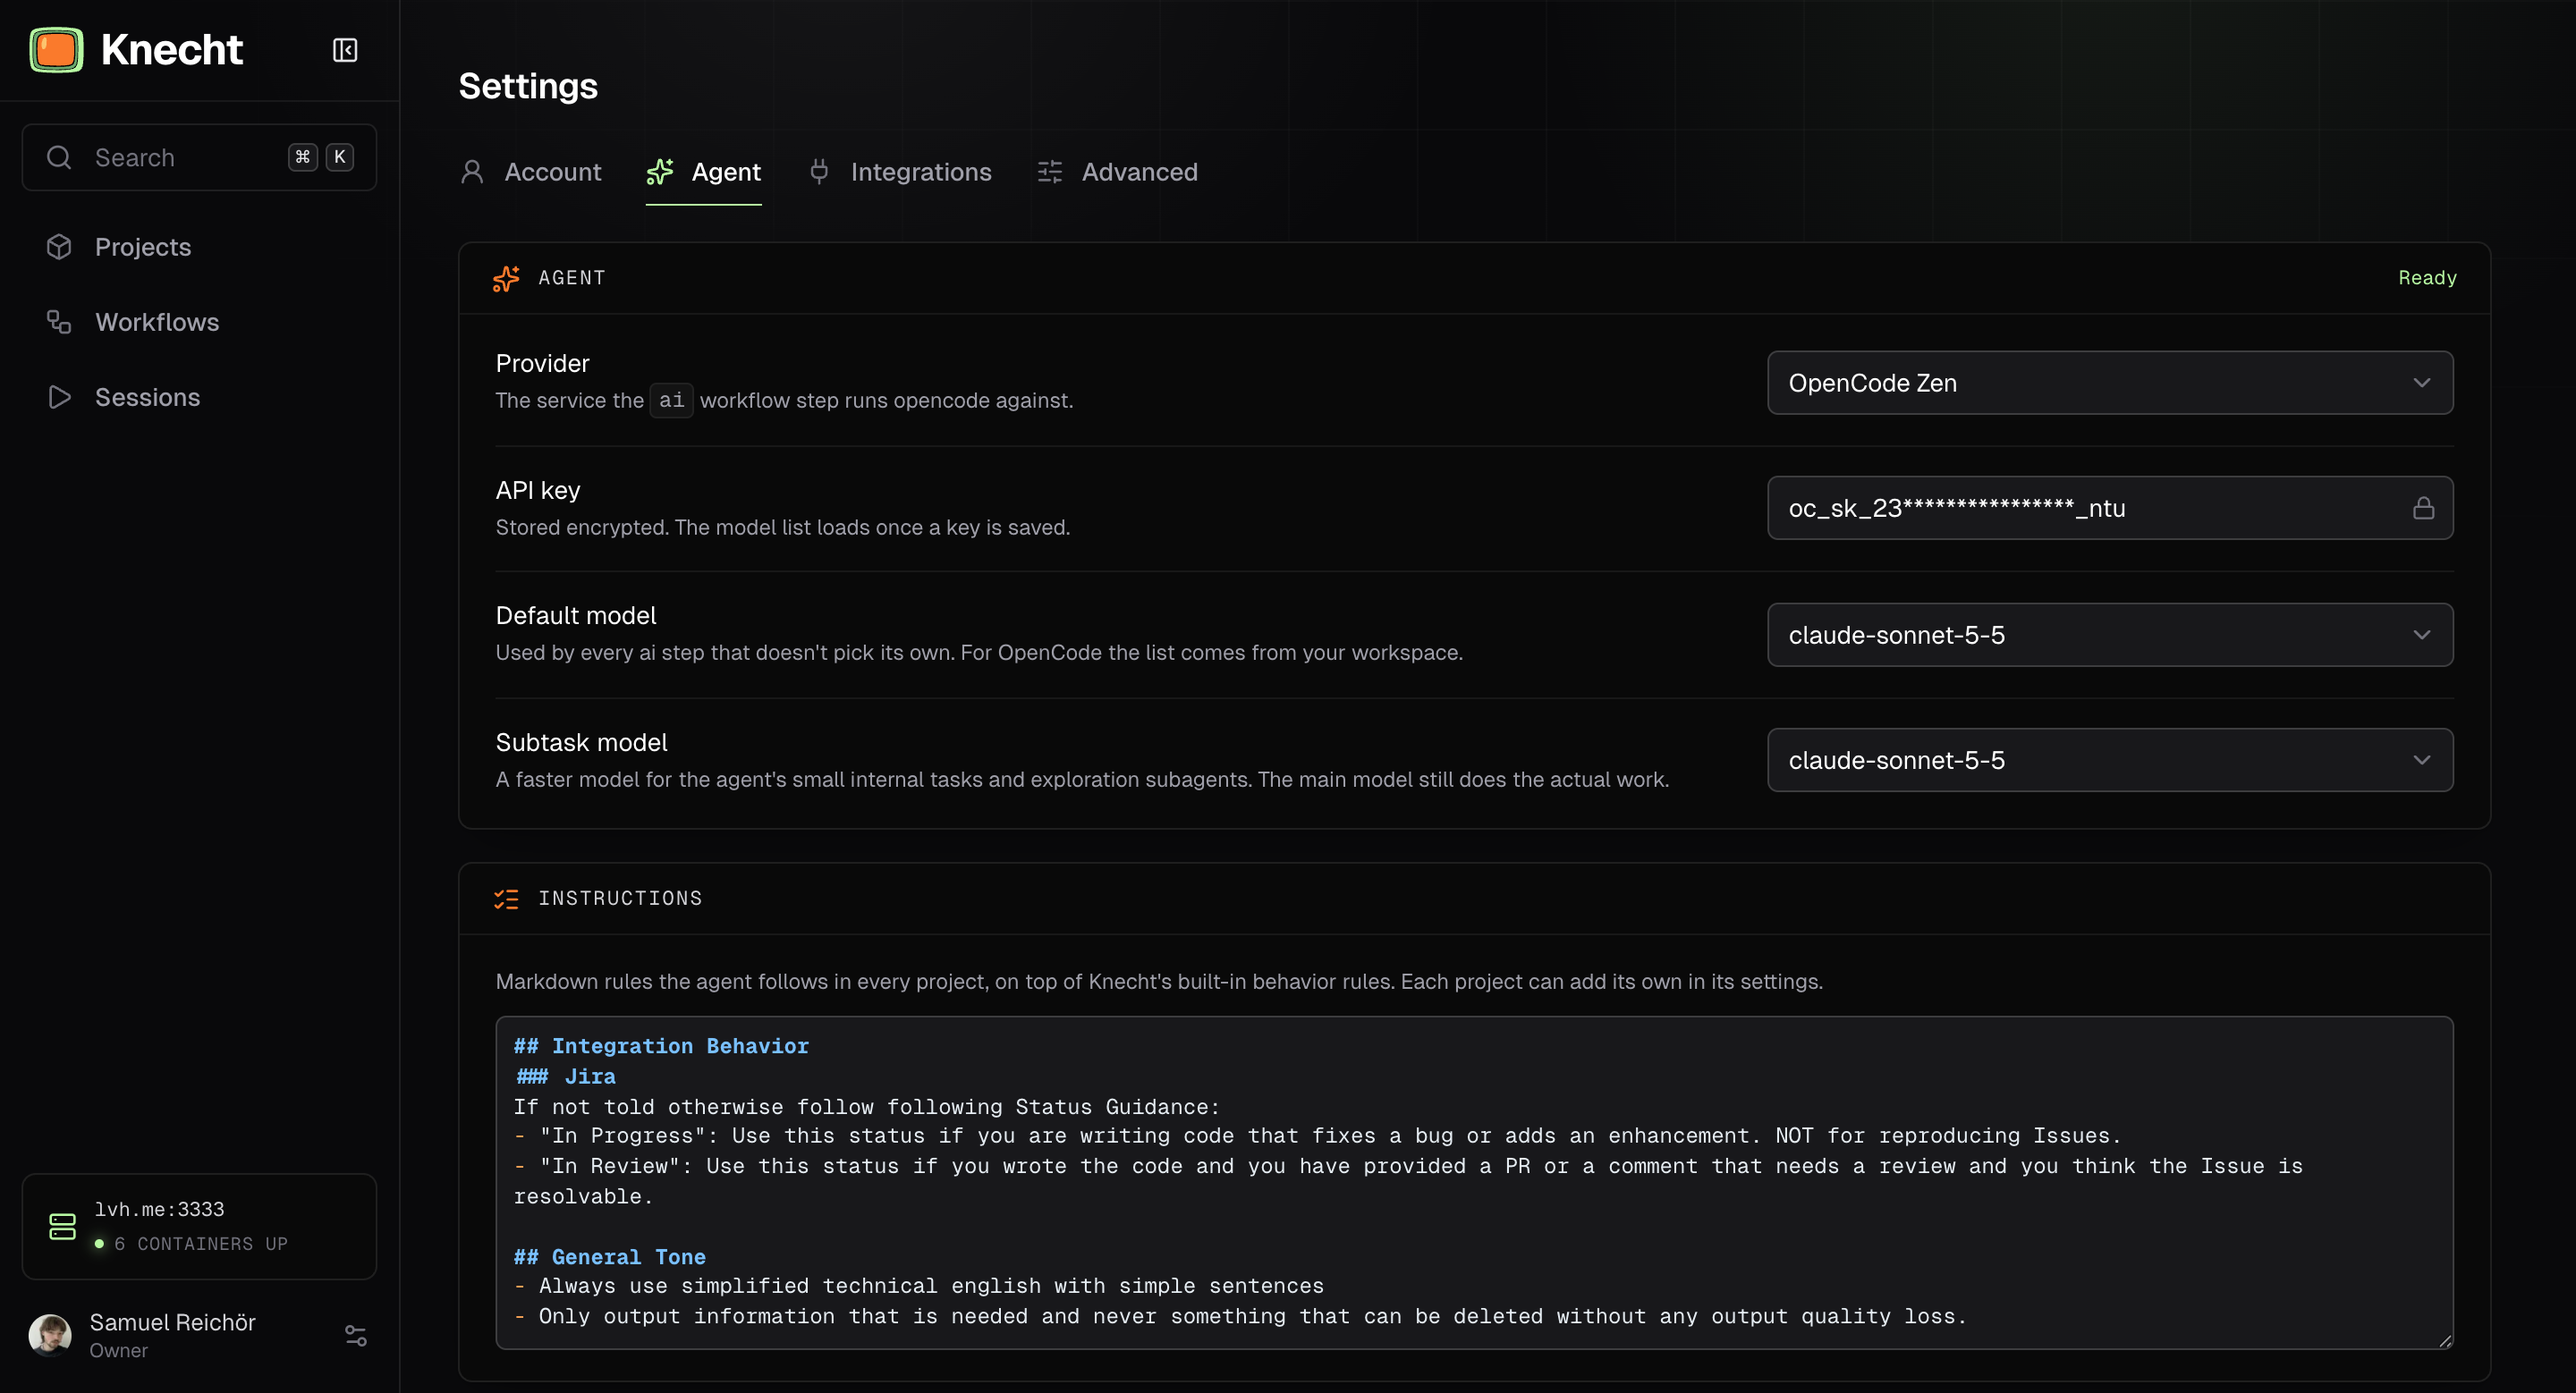
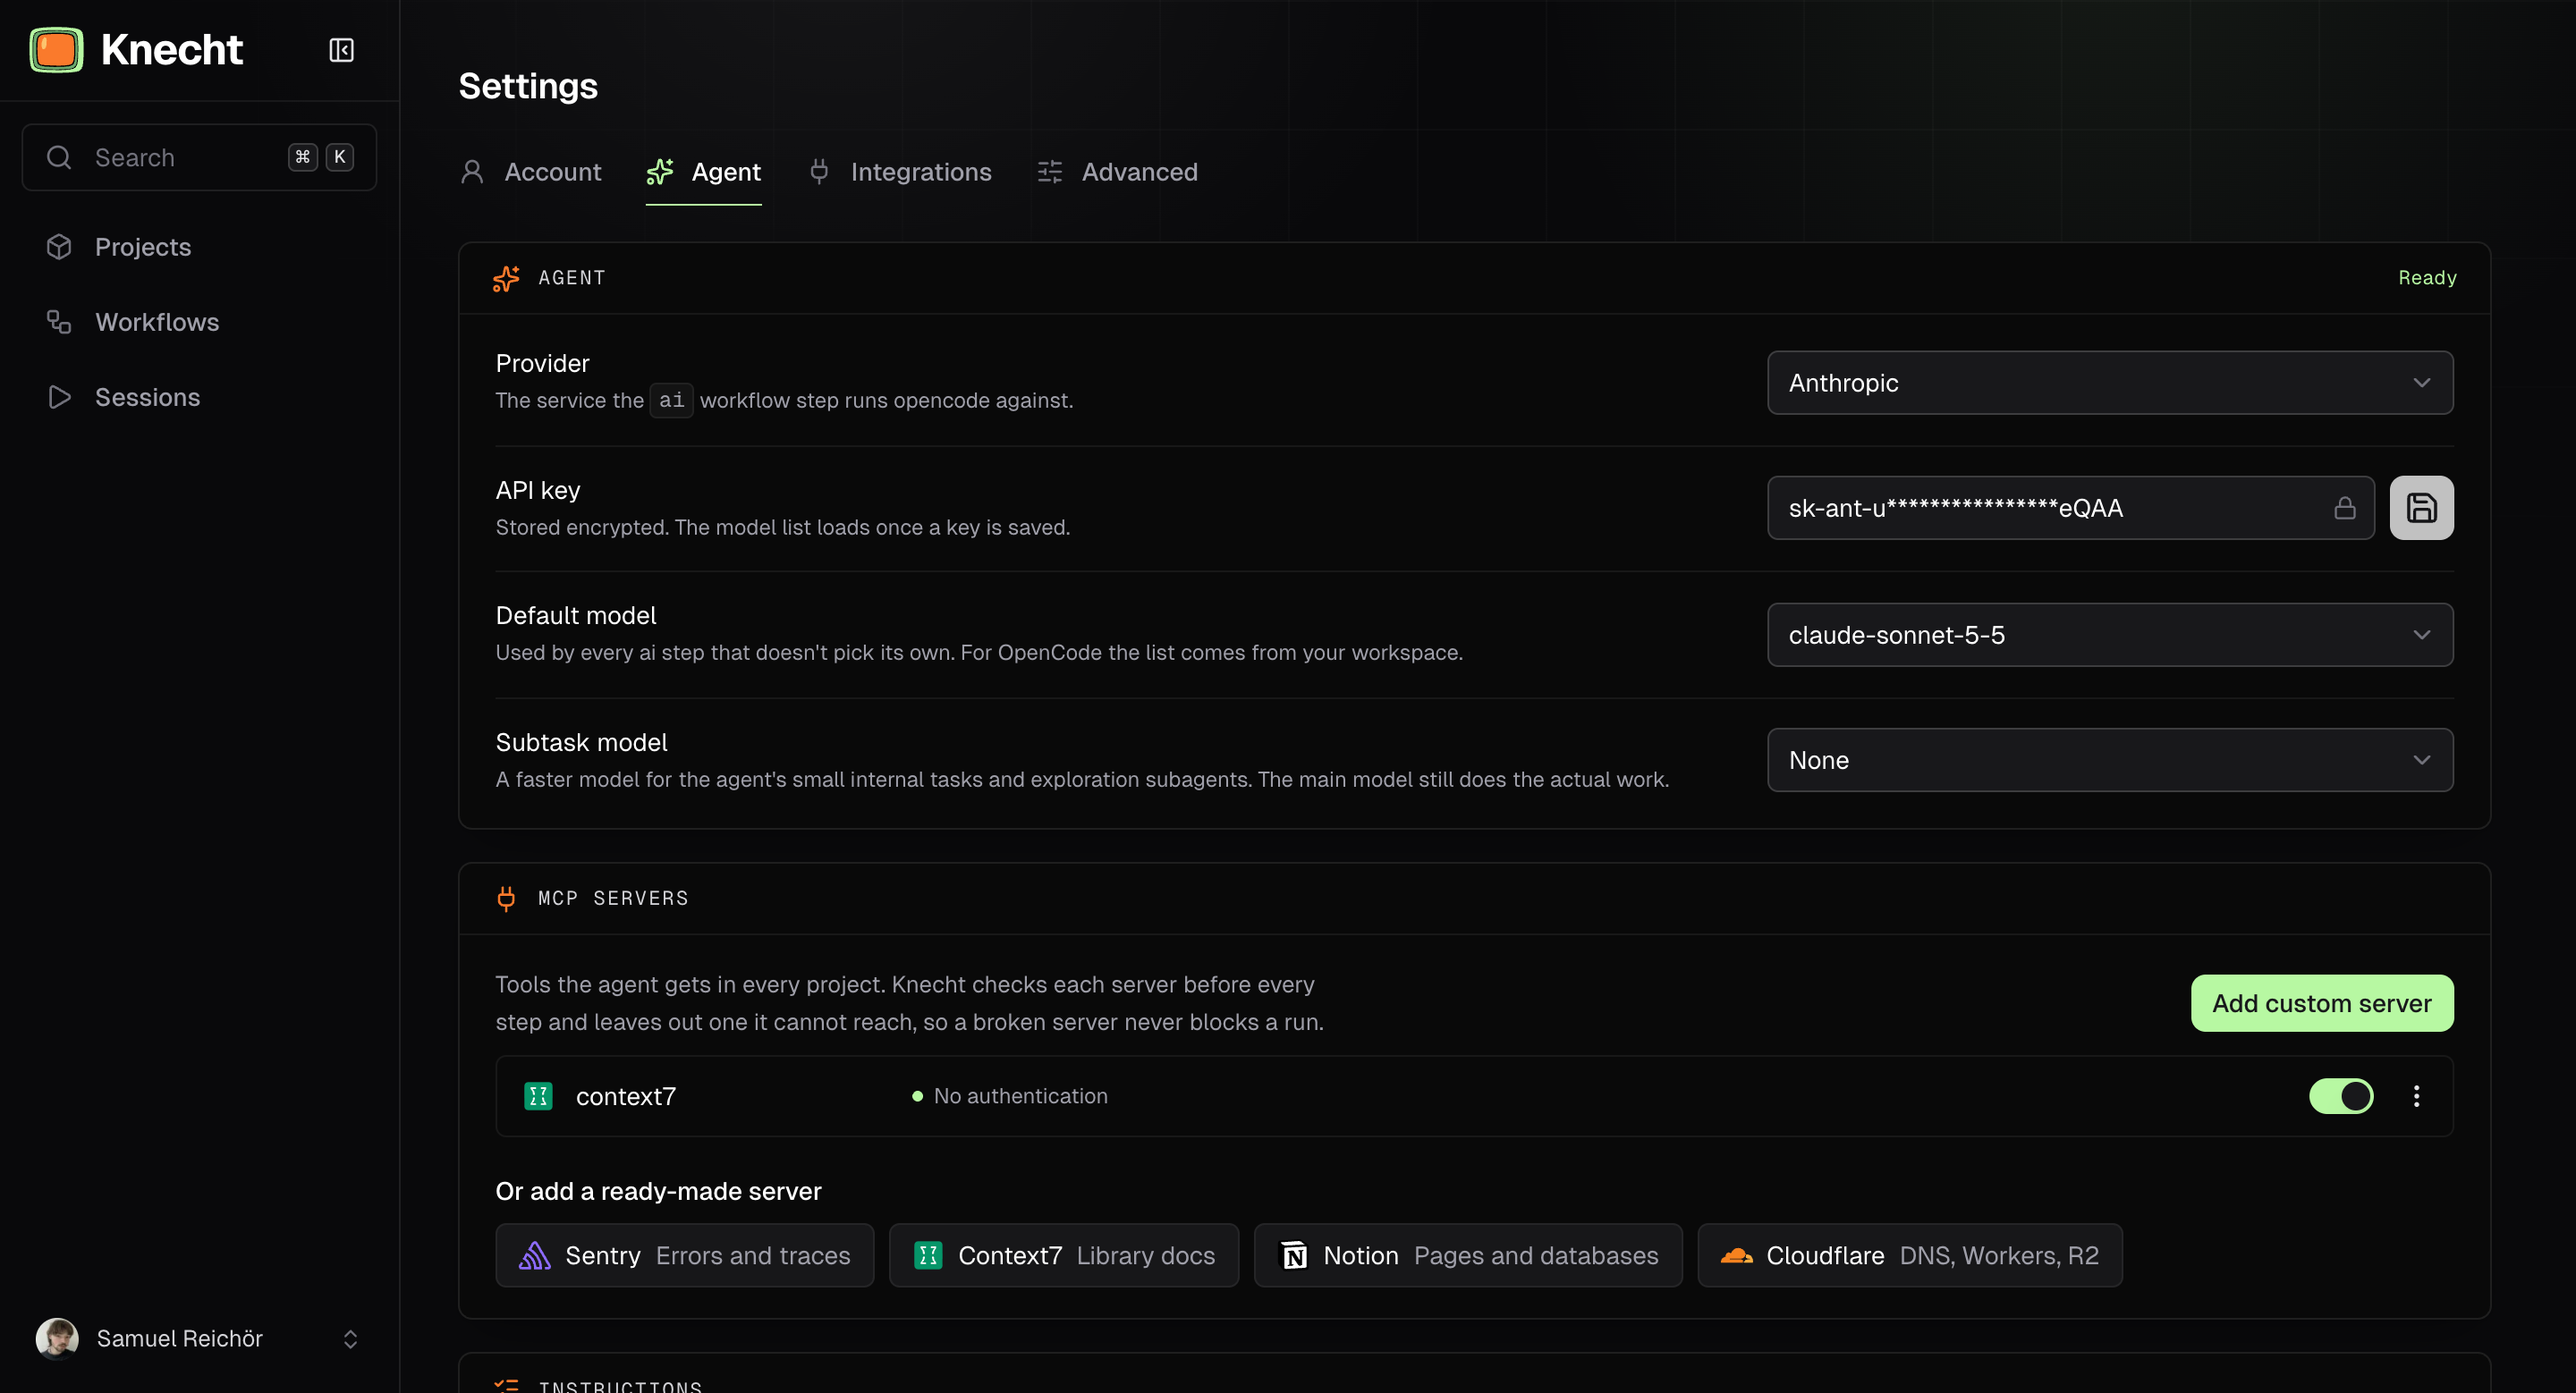
docs: Update ai provider settings docs

diff --git a/content/en/docs/2.usage/4.agent.md b/content/en/docs/2.usage/4.agent.md
@@ -49,9 +49,25 @@ The allowed types are `string`, `number`, `boolean`, and their array forms. The 
 
 ## Models
 
-The default model and an optional subtask model are set under Settings > Agent. The subtask model is used when the agent delegates smaller pieces of work, for example exploring the repository. Each AI step has a model field that overrides the default, so one workflow can mix a small model for triage and a large one for the fix, all behind the same key.
+The default model and an optional subtask model are set in the global AI settings, or per project, see [AI Connection per Project](#ai-connection-per-project) below. The subtask model is used when the agent delegates smaller pieces of work, for example exploring the repository. Each AI step has a model field that overrides the default, so one workflow can mix a small model for triage and a large one for the fix, all behind the same key. Besides the models of the provider, the field offers two entries that follow the settings:
 
-Switching the provider clears both stored models, because model names do not carry over between providers. A dialog asks before the switch, then pick the models again. Only owners change provider, key, and models.
+- "Default model": the default model of the project's connection.
+- "Default subtask model": the subtask model of the project's connection, or the default model when none is set.
+
+Switching the provider clears the key and both stored models, because neither carries over between providers. A dialog asks before the switch, then you save the new provider's key and a default model is preselected. Only owners change provider, key, and models.
+
+## AI Connection per Project
+
+A project uses the global AI settings until you change them in the project settings under "Advanced" > "AI connection". Every field you leave untouched keeps the global value. This way a project can, for example, run on the client's own key.
+
+Two special cases:
+
+- **A model the project's provider lacks:** Workflows are shared by all projects, so an AI step can ask for a model the project's own provider does not have. That step runs with the global AI settings.
+- **A new global provider:** Projects with their own key keep the previous provider. All other projects switch to the new one.
+
+::note{variant='info'}
+Keep the global AI settings configured even when every project has its own connection. Planned AI features that belong to no project, for example help with creating workflows, will run on them.
+::
 
 ## MCP Servers
 

diff --git a/content/en/docs/1.get-started/4.setup.md b/content/en/docs/1.get-started/4.setup.md
@@ -68,13 +68,13 @@ The AI provider is required for the AI action and lives under Settings, Agent. I
 
 ### AI Provider
 
-The AI action runs an agent inside the run's environment, authenticated against one provider with one key. Under Settings > Agent, an owner picks the provider, pastes the key, and chooses a default model. The key is stored encrypted and shown masked, typing into the field replaces it. Supported providers:
+The AI action runs an agent inside the run's environment, authenticated against one provider with one key. Under Settings > Agent, an owner picks the provider, saves the key, and chooses a default model. Knecht checks the key with the provider when you save it. The key is stored encrypted and shown masked, typing into the field replaces it. Supported providers:
 
 - OpenCode Zen and OpenCode Go, two separate plans. Both take a service account key (`oc_sk_…`) from the [OpenCode console](https://opencode.ai/console). Pick the plan you pay for, the model lists differ.
 - Anthropic, OpenAI, and Google with their own API keys.
 - Langdock, a gateway with an EU or US region. The region applies to every request of the instance.
 
-The model list comes from the selected provider. For OpenCode it comes from your workspace, so models disabled there do not show up. The optional subtask model is used when the agent delegates smaller tasks. Each AI step in a workflow can override the default model. The instructions field on the same page is covered on [AI Agent](/docs/usage/agent).
+The model list loads once the key is saved. For OpenCode it comes from your workspace, so models disabled there do not show up. The optional subtask model is used when the agent delegates smaller tasks. Each AI step in a workflow can override the default model. The instructions field on the same page is covered on [AI Agent](/docs/usage/agent).
 
 ![The Agent tab under Settings, with the provider, API key, and default and subtask model fields](/assets/knecht-settings-ai.png)
 

diff --git a/content/en/docs/2.usage/1.projects.md b/content/en/docs/2.usage/1.projects.md
@@ -87,3 +87,5 @@ The done screen offers "Open project", which shows the project page, and "Test b
 Everything from the guided setup lives in the project settings and can be changed there. "Settings" in the top right of the project page opens them. Beyond the setup values, the settings hold the agent instructions and the Mentions panel, preview access, a link panel for each connected issue tracker, and "Persistent folders" for files that should survive across runs.
 
 ![The Environment tab of the project settings, with panels for env variables, boot commands, dev server, environment, database dump, and persistent folders](/assets/knecht-project-settings.png)
+
+To control AI costs per project, a project can use its own AI key or provider. Set it under "Advanced" > "AI connection", see [AI Connection per Project](/docs/usage/agent#ai-connection-per-project).
